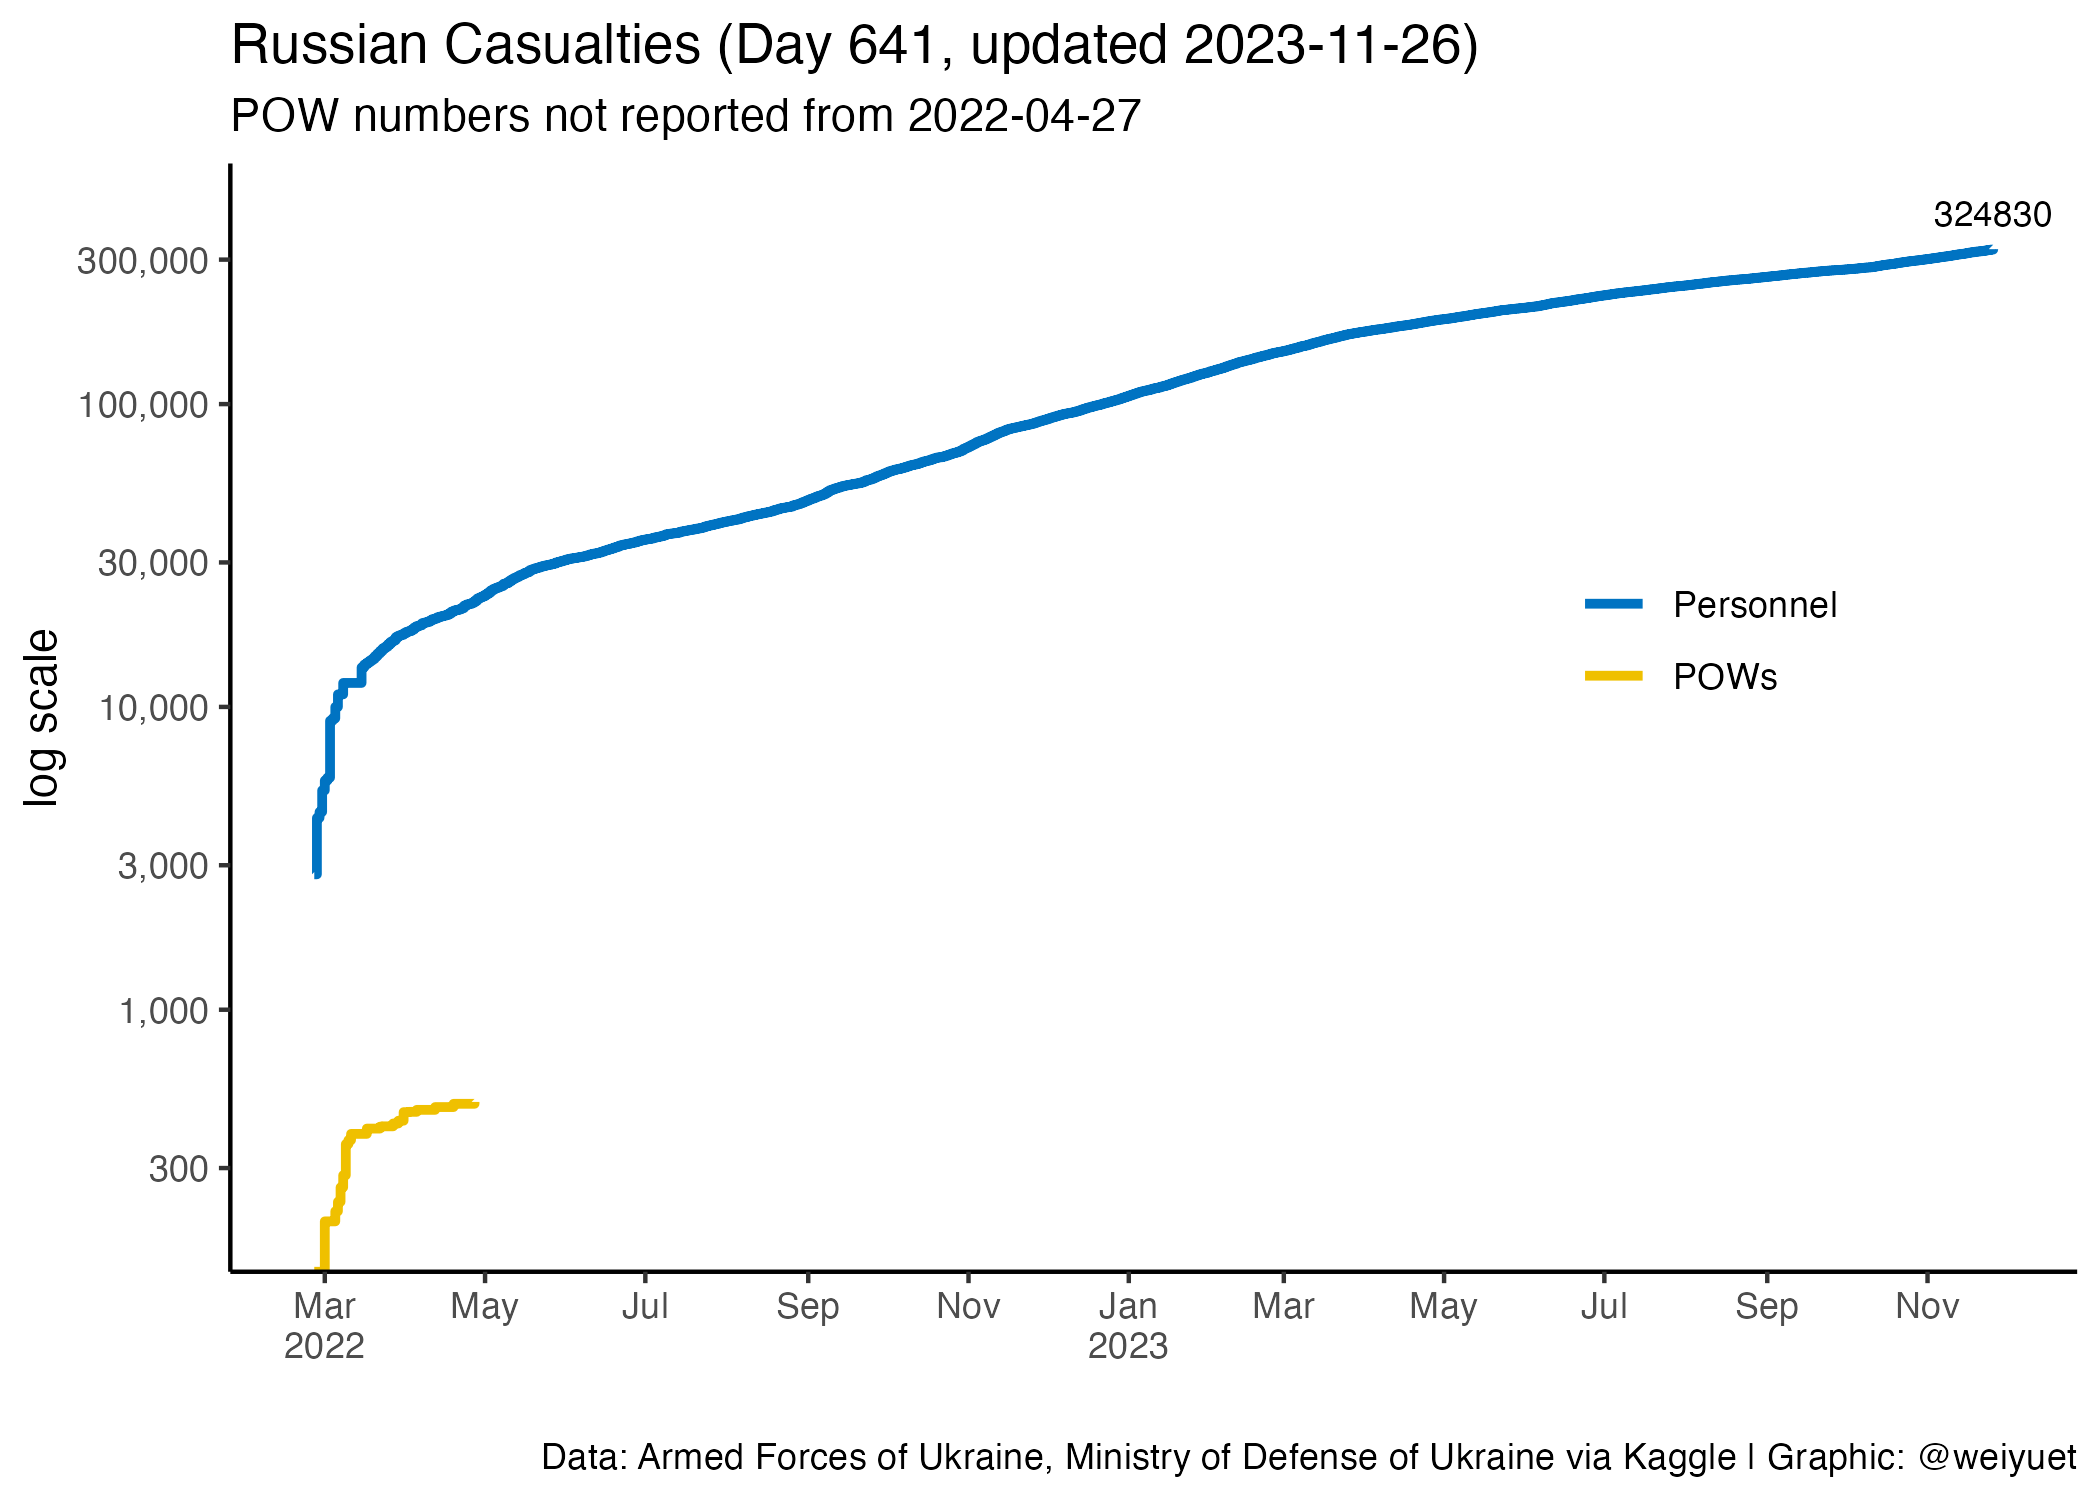
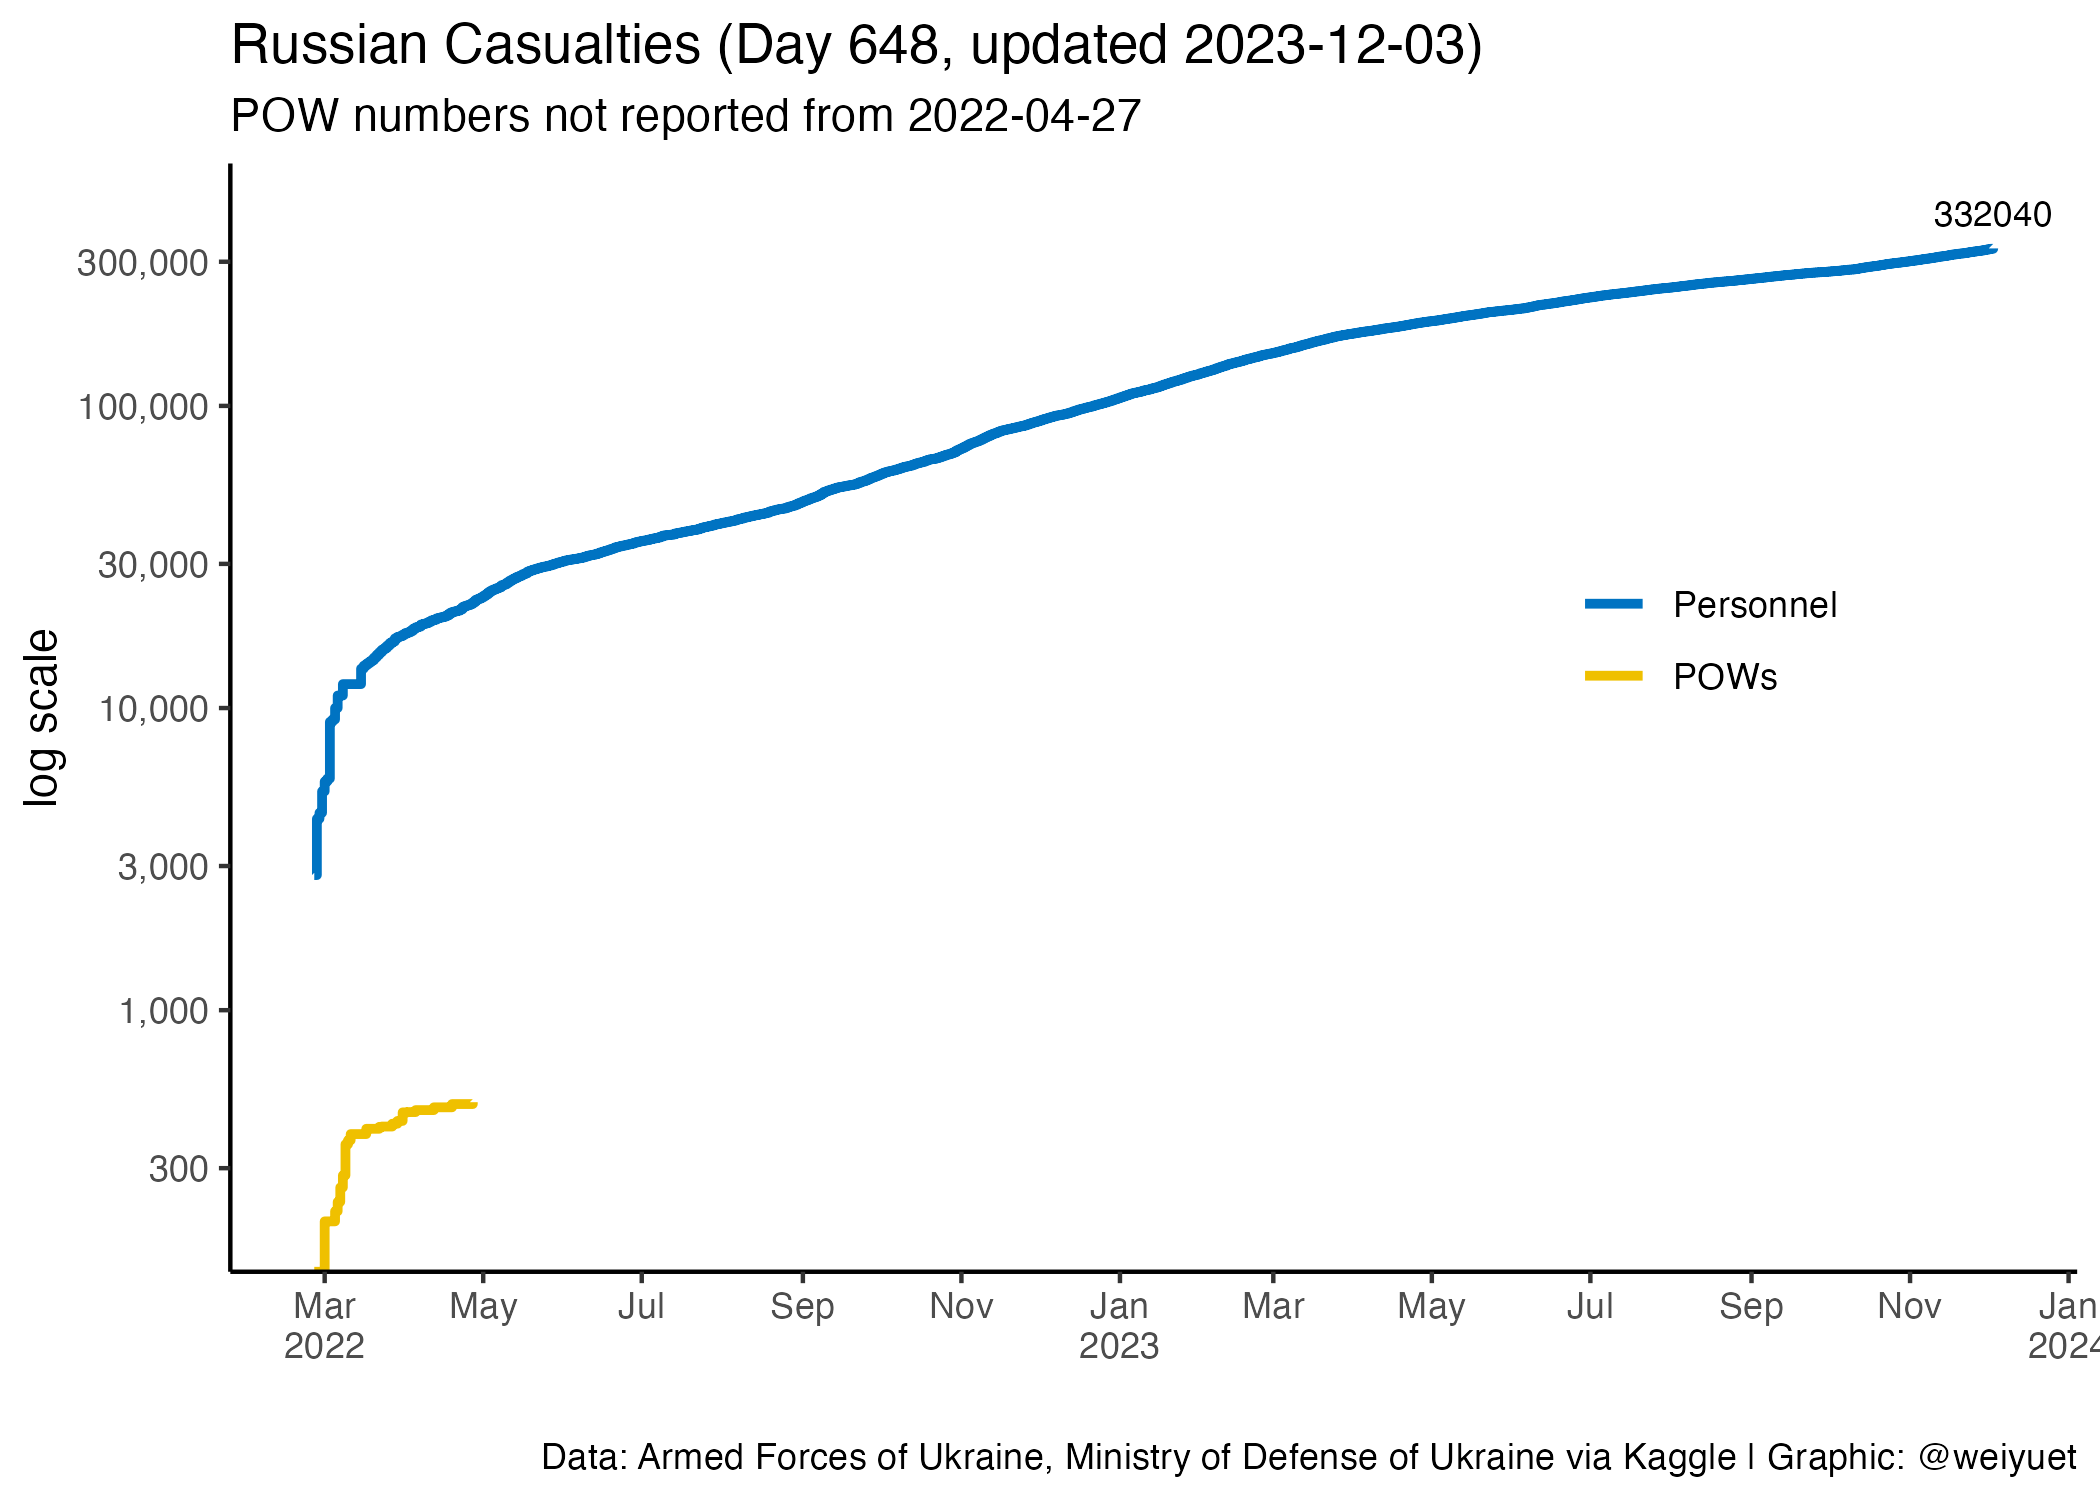
Updated 3 December

diff --git a/README.md b/README.md
@@ -6,7 +6,7 @@ Wong Wei Yuet 2022-05-26
 
   - War casualty data updated daily from [`Petro Ivanyuk's Kaggle`](https://www.kaggle.com/datasets/piterfm/2022-ukraine-russian-war). All data is official and put together by `Petro`
 
-Updated: 2023-11-26
+Updated: 2023-12-03
 
 ## Summary of Conflict
 
